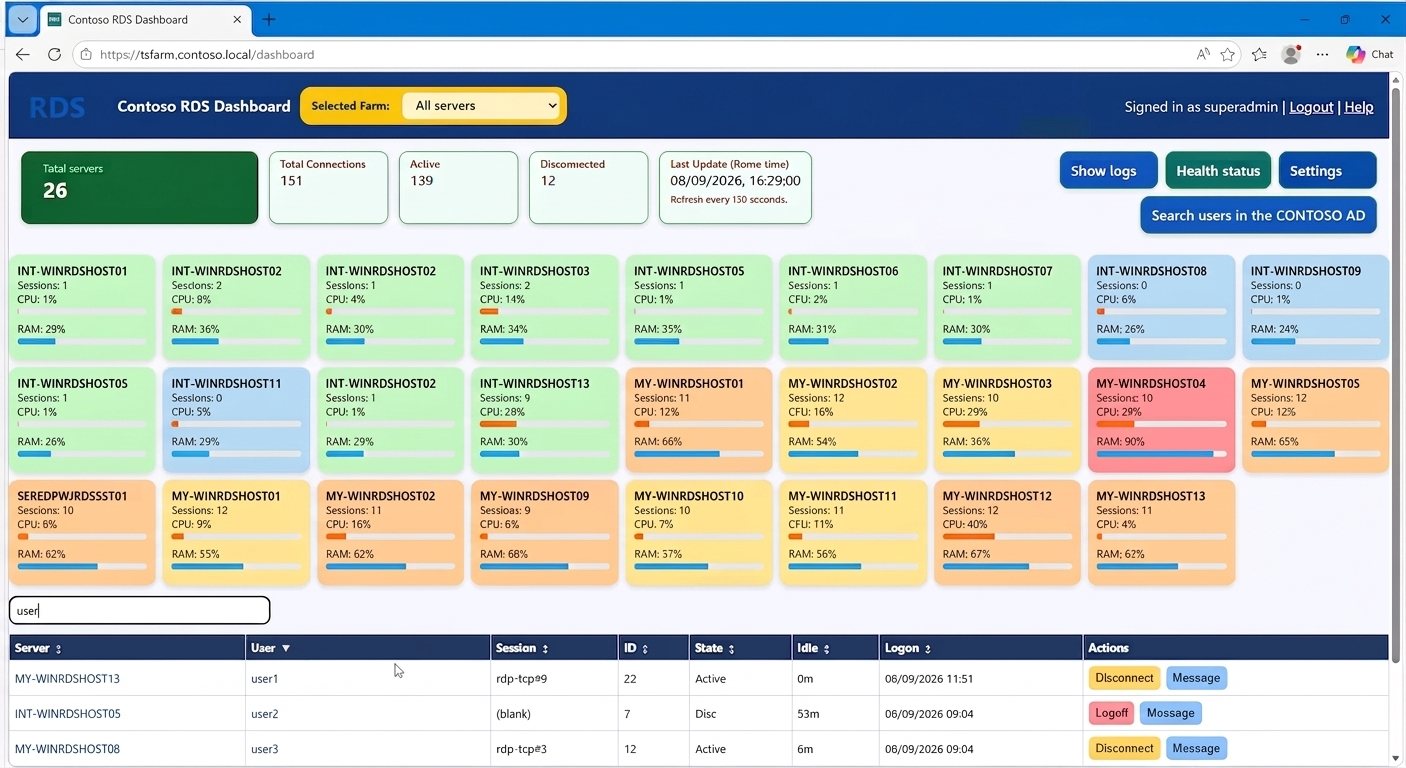
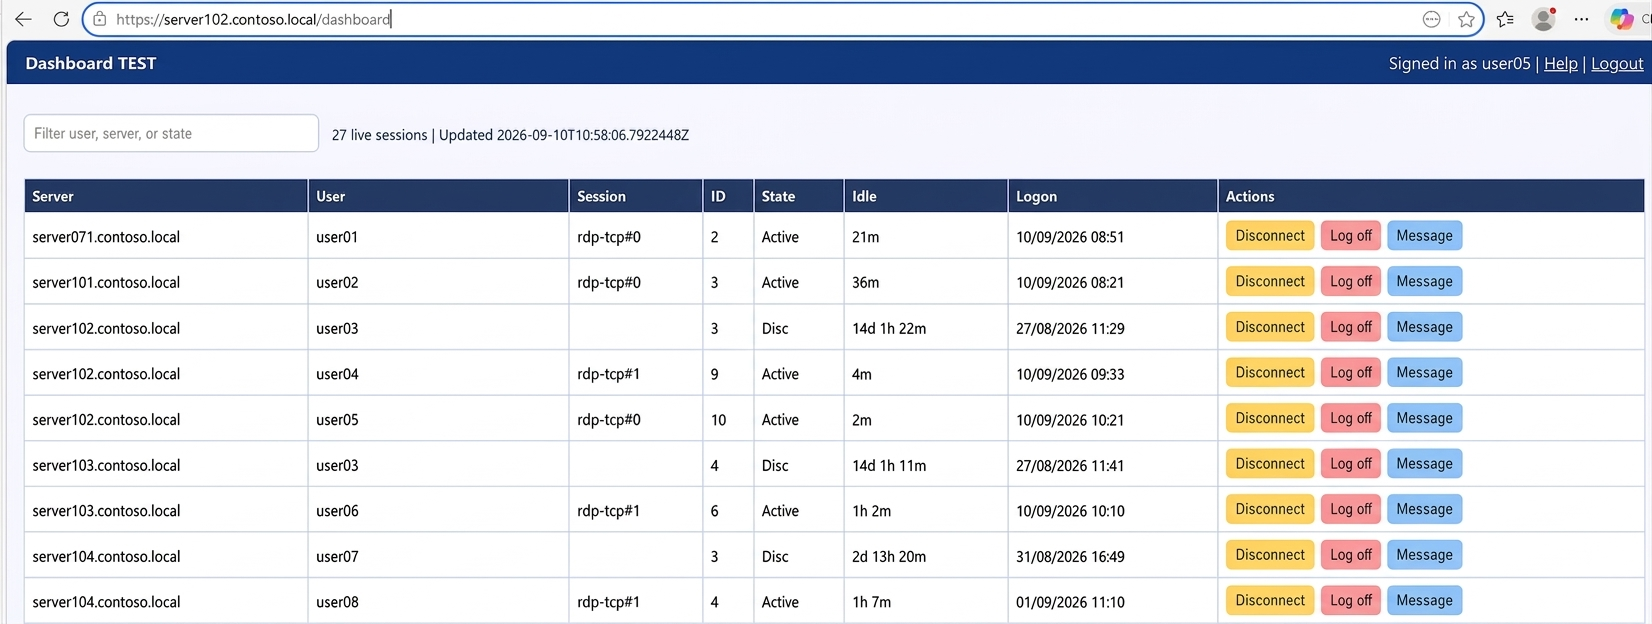
small fixes

diff --git a/webapp/templates/dashboard.html b/webapp/templates/dashboard.html
@@ -6,8 +6,15 @@
   <title>__DASHBOARD_TITLE__</title>
   <style>
     body { margin:0; background:#f4f7fb; color:#172033; font-family:Segoe UI,Tahoma,sans-serif; }
-    header { padding:10px 18px; background:#123a7a; color:#fff; display:flex; justify-content:space-between; align-items:center; gap:16px; }
+    header { padding:6px 18px; background:#123a7a; color:#fff; display:flex; justify-content:space-between; align-items:center; gap:16px; }
+    header .left { display:flex; align-items:center; gap:10px; }
     header a { color:#fff; }
+    .logo-mark { position:relative; width:96px; height:64px; display:inline-flex; align-items:center; justify-content:flex-start; overflow:hidden; }
+    .logo-fallback { position:absolute; inset:0; display:inline-flex; align-items:center; justify-content:center; border-radius:50%; background:rgba(255,255,255,0.2); color:#fff; font-size:28px; font-weight:700; letter-spacing:0.4px; opacity:0; transition:opacity 120ms ease; }
+    .logo-image { position:relative; width:96px; height:96px; display:block; opacity:0; transition:opacity 120ms ease; object-fit:contain; }
+    .logo-image.is-ready { opacity:1; }
+    .logo-fallback.is-shown { opacity:1; }
+    .logo-fallback.is-hidden { opacity:0; pointer-events:none; }
     .shell { padding:16px; }
     .toolbar { display:flex; gap:12px; align-items:center; flex-wrap:wrap; margin:12px 0; }
     input { padding:9px; border:1px solid #b8c4d8; border-radius:6px; min-width:260px; }
@@ -19,13 +26,18 @@
     .actions { display:flex; gap:6px; flex-wrap:wrap; }
     button { border:0; border-radius:5px; padding:6px 9px; cursor:pointer; }
     .disconnect { background:#ffd66e; } .logoff { background:#ff9a9a; } .message-btn { background:#8fc3ff; }
+    .host-badges { display:flex; gap:8px; flex-wrap:wrap; margin:0 0 12px; }
+    .host-badge { display:flex; flex-direction:column; gap:2px; padding:6px 10px; border-radius:6px; color:#fff; min-width:110px; font-size:12px; }
+    .host-badge .name { font-weight:600; }
+    .host-badge.ok { background:#2e8b57; } .host-badge.warn { background:#c9820a; } .host-badge.crit { background:#c0392b; } .host-badge.unknown { background:#7a8699; }
   </style>
 </head>
 <body>
-  <header><strong>__DASHBOARD_TITLE__</strong><span>Signed in as __SAFE_USER__ | <a href="/help">Help</a> | <a href="/logout">Logout</a></span></header>
+  <header><div class="left"><a href="/dashboard" aria-label="Dashboard home"><span class="logo-mark"><span class="logo-fallback is-hidden" aria-hidden="true">NB</span><img id="header-logo" class="logo-image" src="/logo.png" alt="Logo" width="96" height="96" /></span></a><strong>__DASHBOARD_TITLE__</strong></div><span>Signed in as __SAFE_USER__ | <a href="/help">Help</a> | <a href="/logout">Logout</a></span></header>
   <main class="shell">
     <div class="toolbar"><input id="search" placeholder="Filter user, server, or state" /><span id="summary" class="muted">Loading live sessions...</span></div>
     <div id="message" class="message" hidden></div>
+    <div id="hostBadges" class="host-badges"></div>
     <table><thead><tr><th>Server</th><th>User</th><th>Session</th><th>ID</th><th>State</th><th>Idle</th><th>Logon</th><th>Actions</th></tr></thead><tbody id="rows"></tbody></table>
   </main>
 <script>
@@ -34,12 +46,19 @@ const rowsEl = document.getElementById('rows');
 const searchEl = document.getElementById('search');
 const summaryEl = document.getElementById('summary');
 const messageEl = document.getElementById('message');
+const hostBadgesEl = document.getElementById('hostBadges');
+const headerLogoEl = document.getElementById('header-logo');
+const logoFallbackEl = document.querySelector('.logo-fallback');
 let snapshot = { Sessions: [] };
+headerLogoEl.addEventListener('load', () => { headerLogoEl.classList.add('is-ready'); logoFallbackEl.classList.add('is-hidden'); });
+headerLogoEl.addEventListener('error', () => { logoFallbackEl.classList.remove('is-hidden'); logoFallbackEl.classList.add('is-shown'); });
+function hostBadgeClass(cpu, ram) { const worst = Math.max(cpu ?? -1, ram ?? -1); if (worst < 0) return 'unknown'; if (worst >= 85) return 'crit'; if (worst >= 60) return 'warn'; return 'ok'; }
+function renderHosts() { const servers = Array.isArray(snapshot.Servers) ? snapshot.Servers : []; hostBadgesEl.innerHTML = servers.map(srv => { const cpu = srv.CPU; const ram = srv.RAM; const cls = hostBadgeClass(cpu, ram); const cpuText = cpu === null || cpu === undefined ? '-' : `${cpu}%`; const ramText = ram === null || ram === undefined ? '-' : `${ram}%`; return `<div class="host-badge ${cls}"><span class="name">${esc(srv.Short || srv.Server)}</span><span>CPU ${cpuText} | RAM ${ramText}</span></div>`; }).join(''); }
 function esc(value) { return String(value ?? '').replace(/[&<>"']/g, c => ({'&':'&amp;','<':'&lt;','>':'&gt;','"':'&quot;',"'":'&#39;'}[c])); }
 function showMessage(text) { messageEl.textContent = text; messageEl.hidden = !text; }
 function visibleSessions() { const query = searchEl.value.trim().toLowerCase(); return (Array.isArray(snapshot.Sessions) ? snapshot.Sessions : []).filter(s => !query || ['Server','Username','State','SessionName'].some(k => String(s[k] ?? '').toLowerCase().includes(query))); }
 function render() { const sessions = visibleSessions(); rowsEl.innerHTML = sessions.map(s => `<tr><td>${esc(s.Server)}</td><td>${esc(s.Username)}</td><td>${esc(s.SessionName)}</td><td>${esc(s.ID)}</td><td>${esc(s.State)}</td><td>${esc(s.IdleTime)}</td><td>${esc(s.LogonTime)}</td><td><div class="actions"><button class="disconnect" data-action="disconnect">Disconnect</button><button class="logoff" data-action="logoff">Log off</button><button class="message-btn" data-action="sendmsg">Message</button></div></td></tr>`).join(''); summaryEl.textContent = `${sessions.length} live session${sessions.length === 1 ? '' : 's'} | Updated ${snapshot.GeneratedAtUtc || 'not yet'}`; rowsEl.querySelectorAll('button').forEach((button, index) => button.addEventListener('click', () => act(button.dataset.action, sessions[Math.floor(index / 3)]))); }
-async function load() { try { const response = await fetch('/api/data', { cache:'no-store' }); if (!response.ok) throw new Error(await response.text()); snapshot = await response.json(); showMessage(''); render(); } catch (error) { showMessage(`Unable to load live session data: ${error.message}`); } }
+async function load() { try { const response = await fetch('/api/data', { cache:'no-store' }); if (!response.ok) throw new Error(await response.text()); snapshot = await response.json(); showMessage(''); renderHosts(); render(); } catch (error) { showMessage(`Unable to load live session data: ${error.message}`); } }
 async function act(action, session) { if (!session) return; let message = ''; if (action === 'sendmsg') { message = window.prompt('Message to send:') || ''; if (!message) return; } if ((action === 'logoff' || action === 'disconnect') && !window.confirm(`${action === 'logoff' ? 'Log off' : 'Disconnect'} ${session.Username || 'this session'}?`)) return; const body = new URLSearchParams({ csrfToken, action, server:String(session.Server || ''), id:String(session.ID || ''), message, username:String(session.Username || ''), sessionName:String(session.SessionName || '') }); try { const response = await fetch('/api/session-action', { method:'POST', headers:{'Content-Type':'application/x-www-form-urlencoded'}, body }); if (!response.ok) throw new Error(await response.text()); showMessage('Session action completed.'); await load(); } catch (error) { showMessage(`Session action failed: ${error.message}`); } }
 searchEl.addEventListener('input', render); load(); setInterval(load, __AUTO_REFRESH_SECONDS__ * 1000);
 </script>

diff --git a/README.md b/README.md
@@ -5,6 +5,9 @@ It's built with native PowerShell/.NET components and standard Windows commands 
 
 It's a stripped down version of the RDS dashboard hosted at https://github.com/nicozanf/RDS_dashboard. Removing data saving for history graphs greatly reduces its cpu/memory footprint.
 
+the **main lite Dashboard**. All the current sessions are listed and searchable. You can disconnect / logoff /message users.
+![the main Dashboard](docs/images/dash.png)
+
 ## Features
 
 - HTTPS on port 443
